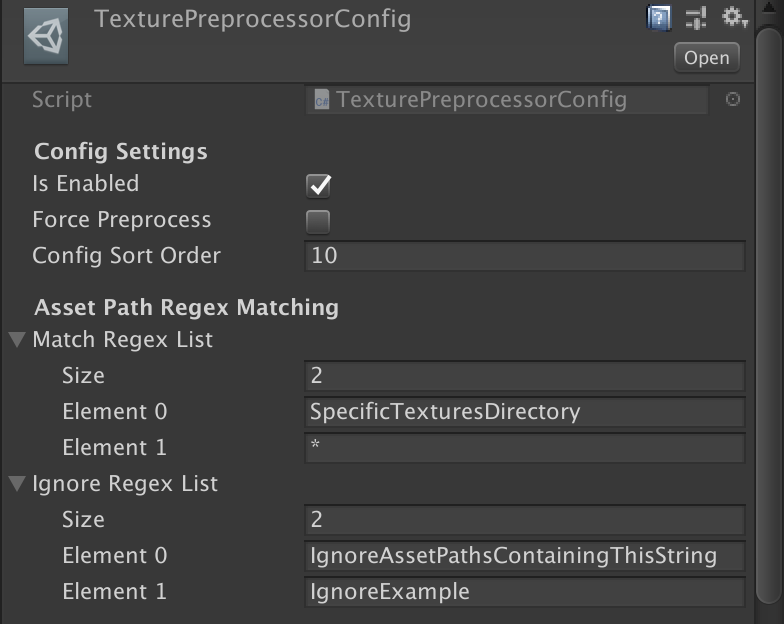
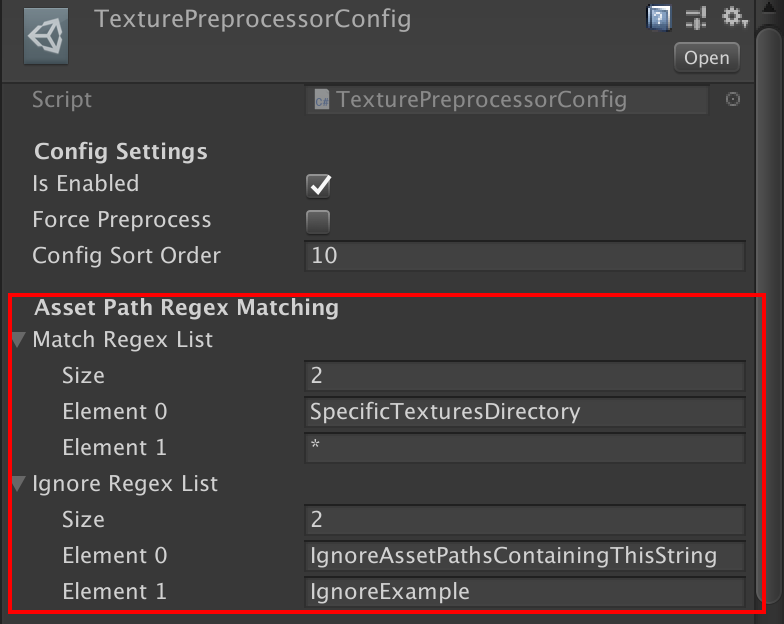
Update README with info about asset path regex strings

Changed region(s): [[0.0, 0.4567, 0.9796, 1.0]]

diff --git a/README.md b/README.md
@@ -19,24 +19,29 @@ First, create configs via the window menu:
 
 ![](/README/create-config-location.png?raw)
 
-It is recommended to have **multiple** TextureProcessorConfigs.
+It is recommended to have **multiple** `TextureProcessorConfigs`. You'll probably want *at least* one config for each texture category (model textures, particle textures, etc). 
 
-You'll probably want *at least* one config for each texture category (model textures, particle textures, etc). 
+## Asset Path Regex Strings
+You can **limit** the configs to certain assets via the asset path regex strings.
 
 Tweak the asset path regex string lists to ensure that each config only targets the desired assets.
+
+You can use the `*` character as a wildcard.
 
 <img src="/README/asset-path-regex-strings.png?raw" width="500">
 
 ## Platform Regex Strings
-The platform regex strings should be perfect matches to the platform strings as much as possible.
+You can **limit** the configs to certain platforms via the platform regex strings.
+
+The platform regex strings should ideally be perfect matches to actual the platform strings.
 
 Example platform regex strings:
 * `Android`
 * `iOS`
-* `Standalone` (for OSX, Windows and Linuix standalone builds)
-* `StandaloneOSX` (a more accurate platform string for OSX)
+* `Standalone` (to match OSX, Windows and Linuix standalone builds)
+* `StandaloneOSX` (a perfect match platform string for OSX)
 
-If unsure of the string for your current platform, try logging `EditorUserBuildSettings.activeBuildTarget.ToString()`.
+To get the string for your current platform, try logging `EditorUserBuildSettings.activeBuildTarget.ToString()`.
 
 <img src="/README/platform-regex-strings.png?raw" width="500">
 
@@ -44,9 +49,8 @@ If unsure of the string for your current platform, try logging `EditorUserBuildS
 **Why is nothing happening when importing an asset?**
 * Make sure that you actually have a preproccessor config for your asset type created inside of your `Assets/` directory.
 
-**I have a config for my asset type. Why isn't it getting used when importing an asset of the same type?**
-* Check your match and ignore regex strings. Ensure that the asset you are importing matches one of the match regex strings, and that it does *not* match one of the ignore regex strings. And then check that your platform matches one of the platform regex strings.
-
+**I have a config for my asset type. Why isn't it used when importing an asset of the same type?**
+* Check your asset path match and ignore regex strings. Ensure that the asset you are importing matches one of the match regex strings, and that it does *not* match one of the ignore regex strings. And then check that your current platform matches one of the platform regex strings.
 
 ## Recommended AudioPreprocessorConfig Settings
 Check out the "Suggested Settings" tables in this [article about audio import settings](https://www.gamasutra.com/blogs/ZanderHulme/20190107/333794/Unity_Audio_Import_Optimisation__getting_more_BAM_for_your_RAM.php).  
